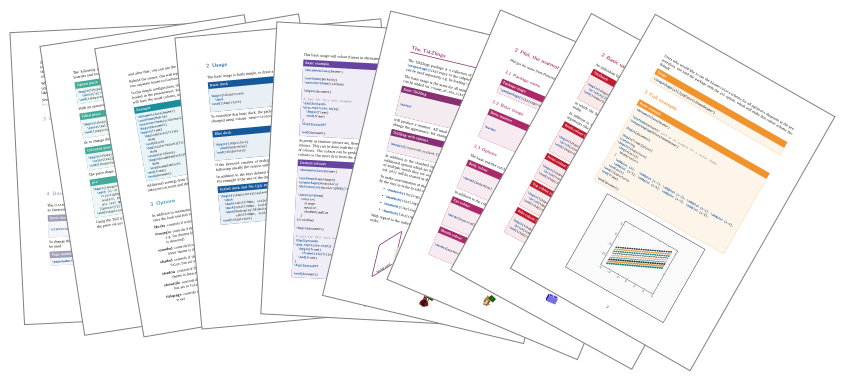
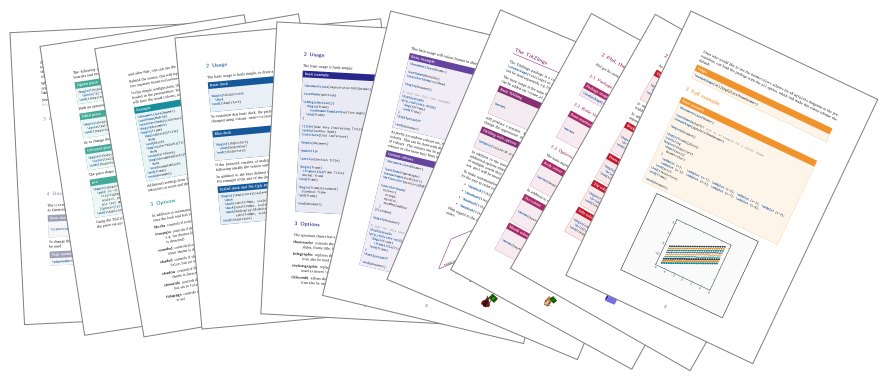
added spectrum theme

diff --git a/ressouces/docs.tex b/ressouces/docs.tex
@@ -19,6 +19,7 @@
   jigsaw,
   beamertheme-tcolorbox,
   tikzducks,
+  beamertheme-spectrum,
   beamertheme-rainbow,
   tikzlings,
   tikzmarmots,

diff --git a/README.md b/README.md
@@ -40,6 +40,9 @@ I'm also active on several Q&A sites, e.g.:
     [CTAN](https://www.ctan.org/pkg/beamertheme-rainbow), 
     [github](https://github.com/samcarter/beamertheme-rainbow)
   )
+- Spectrum beamer theme (
+    [github](https://github.com/samcarter/beamertheme-spectrum)
+  )  
 - pgfplotsthemebeamer (
     [CTAN](https://ctan.org/pkg/pgfplotsthemebeamer), 
     [github](https://github.com/samcarter/pgfplotsthemebeamer)
